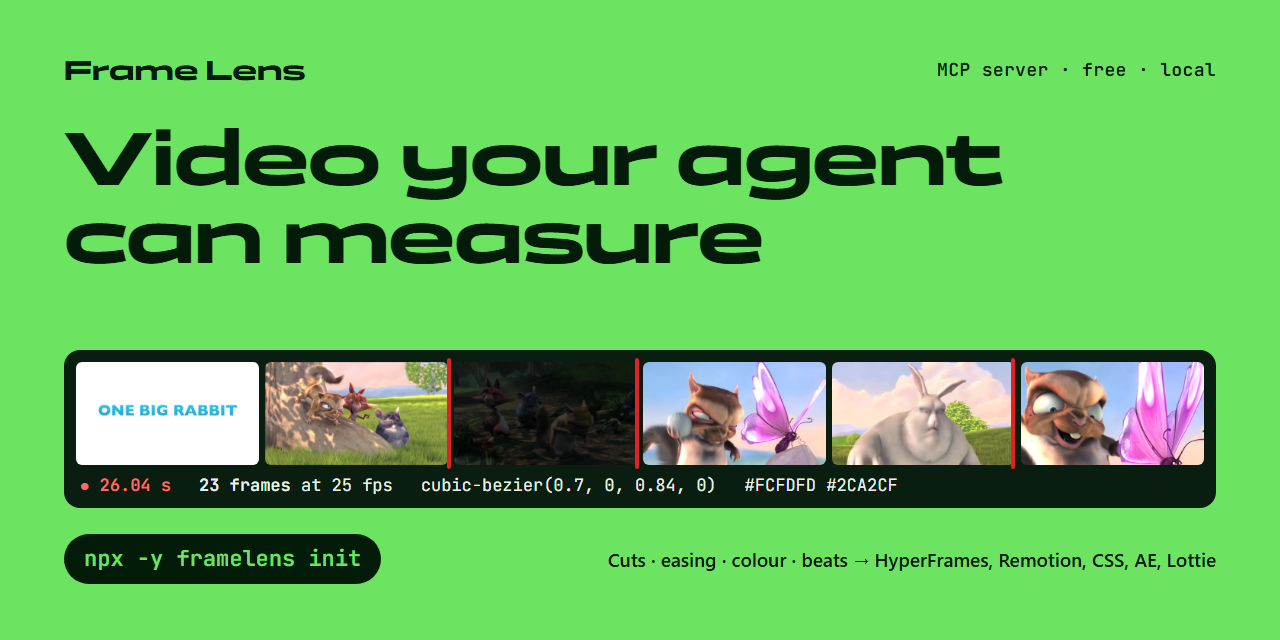
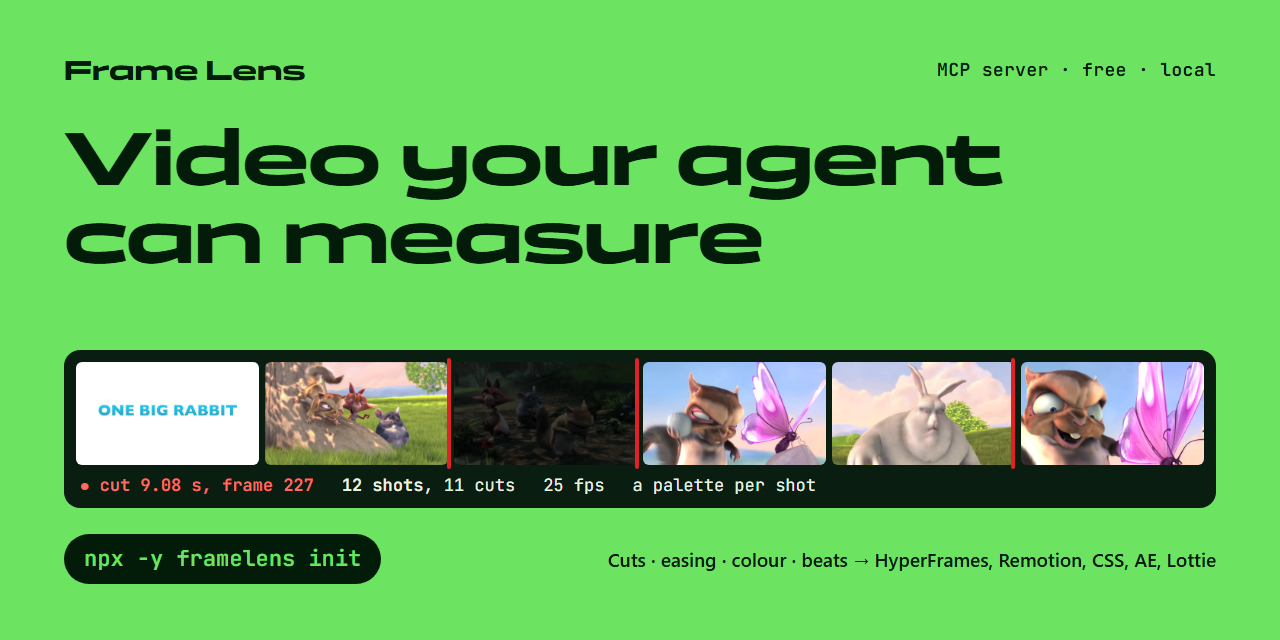
README: drop the 26.04 s move example until the site is regenerated
Checking every frame shows the "26.04 s, 23 frames, cubic-bezier(0.7, 0, 0.84, 0)"
move is a fade to white plus a scale-in that Frame Lens 2.0 read as one move. The
README's "Why" now uses only the trailer's cut times (correct to the frame), the
banner shows the first cut (9.08 s, frame 227) and the shot count, the loupe,
"described vs measured" and export screenshots are removed with marked placeholders,
and the readings table is captured without its Lottie row (the same move read back).

Changed region(s): [[0.0625, 0.75, 0.7188, 0.7812]]

diff --git a/scripts/site/banner.html b/scripts/site/banner.html
@@ -42,7 +42,7 @@
         <span class="cut" style="left: calc(50% - 5px)"></span>
         <span class="cut" style="left: calc(83.333% - 5px)"></span>
       </div>
-      <div class="reading"><span class="rec">● 26.04 s</span><span><b>23 frames</b> at 25 fps</span><span>cubic-bezier(0.7, 0, 0.84, 0)</span><span>#FCFDFD #2CA2CF</span></div>
+      <div class="reading"><span class="rec">● cut 9.08 s, frame 227</span><span><b>12 shots</b>, 11 cuts</span><span>25 fps</span><span>a palette per shot</span></div>
     </div>
     <div class="bottom"><span class="cmd">npx -y framelens init</span><span class="targets">Cuts · easing · colour · beats → HyperFrames, Remotion, CSS, AE, Lottie</span></div>
   </div>

diff --git a/README.md b/README.md
@@ -1,5 +1,5 @@
 <p align="center">
-  <a href="https://makkov-design.github.io/framelens/"><img src="docs/assets/readme/banner.png" width="100%" alt="Frame Lens: video your agent can measure. A strip of Big Buck Bunny trailer frames with red cut marks and the reading 26.04 s, 23 frames at 25 fps, cubic-bezier(0.7, 0, 0.84, 0)."></a>
+  <a href="https://makkov-design.github.io/framelens/"><img src="docs/assets/readme/banner.png" width="100%" alt="Frame Lens: video your agent can measure. A strip of Big Buck Bunny trailer frames with red cut marks and the reading: cut at 9.08 s, frame 227; 12 shots, 11 cuts, 25 fps."></a>
 </p>
 
 <h1 align="center">Frame Lens</h1>
@@ -41,10 +41,17 @@ Figma, and turns what it finds into starter projects for HyperFrames, Remotion, 
 An agent that "watches" a video usually gets a handful of stills or the captions, and describes what it guesses:
 *"a quick, smooth move"*. That is not something you can build from.
 
-Frame Lens measures. On the Big Buck Bunny trailer it finds the move that **starts at 26.04 s and ends at 26.96 s:
-23 frames at 25 fps, on `cubic-bezier(0.7, 0, 0.84, 0)`**, in shot 10 of 12, on a `#FCFDFD` / `#2CA2CF` palette. It
-then writes that move into CSS, Remotion, HyperFrames, After Effects and Lottie, and checks your render against the
-reference.
+Frame Lens measures. On the 33-second Big Buck Bunny trailer it finds **11 cuts to the frame (9.08 s, 11.20 s,
+13.20 s, 13.88 s, 15.00 s, 16.00 s, 16.60 s, 24.92 s, 26.00 s, 29.96 s, 31.04 s)**, 12 shots at 25 fps and a palette
+for each. For the moves that matter, `track` fits the exact curve (a `cubic-bezier` or a spring, with its fit error),
+`export` writes it into CSS, Remotion, HyperFrames, After Effects or Lottie, and `compare` checks your render against
+the reference.
+
+<!--
+  EXAMPLE PLACEHOLDER: a real tracked move from the trailer (start time, length in frames, exact curve and fit error)
+  goes here once the site's readings are regenerated with the transition fix. Do not use the "26.04 s, 23 frames,
+  cubic-bezier(0.7, 0, 0.84, 0)" move: it is a fade to white plus a scale-in that Frame Lens 2.0 read as one move.
+-->
 
 - **Measured, not described.** Cuts on their exact frame, every move with its duration and curve, an OKLab palette per
   shot, loudness, tempo and beats, transcripts with the time of every word.
@@ -59,23 +66,20 @@ reference.
 These are real Frame Lens readings of the [Big Buck Bunny](https://peach.blender.org) trailer, from the
 [website](https://makkov-design.github.io/framelens/).
 
-<table>
-  <tr>
-    <td width="44%" valign="top">
-      <img src="docs/assets/readme/loupe.webp" alt="The loupe: a trailer frame at 26.50 s, a ruler of shots and cuts, and the readout: frame 663, shot 10 of 12, palette, move ease-in 23 frames cubic-bezier(0.7, 0, 0.84, 0)">
-      <p><b>The loupe.</b> Every mark on the ruler is a measurement: shots, cuts, moves, palette, frame by frame.</p>
-    </td>
-    <td width="56%" valign="top">
-      <img src="docs/assets/readme/contact-sheet.webp" alt="A contact sheet of 32 trailer frames, one a second, with red marks where a cut falls">
-      <p><b>The first pass.</b> One frame a second for the style goal, red where a cut falls. Dense frames come only after this.</p>
-      <img src="docs/assets/readme/measured.webp" alt="A description says quick; Frame Lens says starts 26.04 s, ends 26.96 s, 23 frames at 25 fps, cubic-bezier(0.7, 0, 0.84, 0)">
-    </td>
-  </tr>
-</table>
+<img src="docs/assets/readme/contact-sheet.webp" alt="A contact sheet of 32 trailer frames, one a second, with red marks where a cut falls">
 
-<img src="docs/assets/readme/export.webp" alt="The fitted curve cubic-bezier(0.7, 0, 0.84, 0) with frames 651 to 674 placed on it, next to the CSS export of the same move">
+**The first pass.** One frame a second for the style goal, red where a cut falls. Dense frames come only after this,
+around the moments that matter.
 
-<img src="docs/assets/readme/readings.webp" alt="Table: the trailer read from pixels, 12 shots, 11 cuts, 25 fps; a live website read from the browser, 328 animations, mostly 500 ms on cubic-bezier(0.16, 1, 0.3, 1); a Lottie file read from keyframes, y 600 to 540 in 23 frames">
+<img src="docs/assets/readme/readings.webp" alt="Table: the trailer read from pixels, 12 shots, 11 cuts, 25 fps; a live website read from the browser, 328 animations, mostly 500 ms on cubic-bezier(0.16, 1, 0.3, 1); Rive files and Figma prototypes read from the file; YouTube and most video sites through a pinned yt-dlp">
+
+**Measured or read exactly.** Video is measured from pixels; websites, Lottie, Rive and Figma are read from their own
+data.
+
+<!--
+  SCREENSHOT PLACEHOLDER: the site's loupe (.loupe), "described vs measured" (.versus) and export/curve (.export)
+  sections go here once they show the corrected tracked move. Re-enable them in scripts/site/readme-shots.mjs.
+-->
 
 ## Quick start
 
